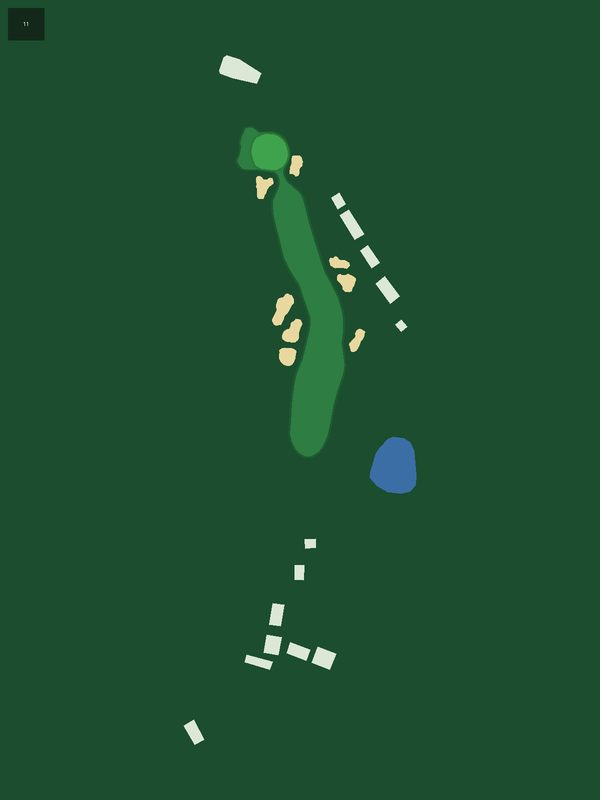
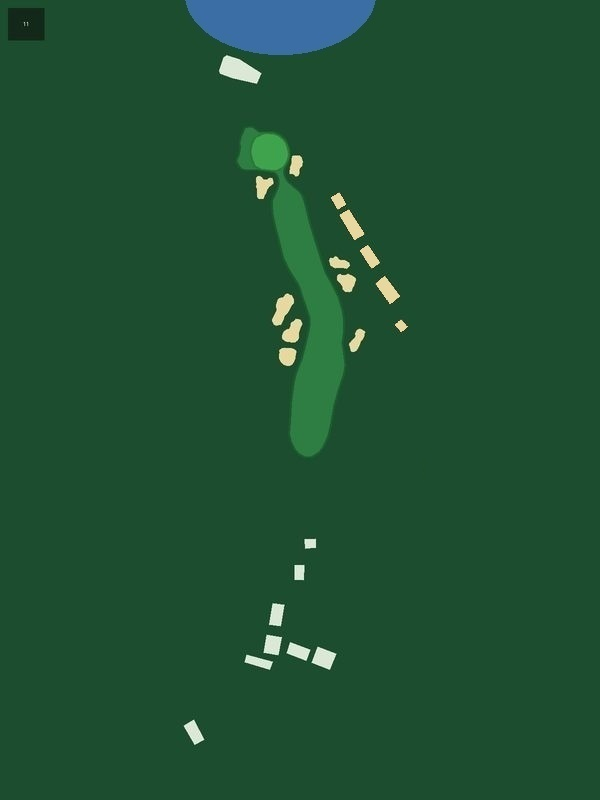
Olympia Fields North: fix map geometry (H1 vertical flip, water hazards on 12 holes, H8 bunkers) + H1 pin correction + 37 to-pin markers + distance scales

diff --git a/app/lib/widgets/hole_map_manifest.dart b/app/lib/widgets/hole_map_manifest.dart
@@ -172,24 +172,24 @@ const holeMapManifest = <String, Map<int, HoleMapAsset>>{
     18: HoleMapAsset(par: 4, map: 'assets/hole_maps/lofoten-links/18.jpg', mask: 'assets/hole_maps/lofoten-links/18_mask.png', tee: Offset(0.572, 0.924), pin: Offset(0.573, 0.191), source: 'osm'),
   },
   'Olympia Fields Country Club': {
-    1: HoleMapAsset(par: 5, map: 'assets/hole_maps/olympia-fields-country-club/1.jpg', mask: 'assets/hole_maps/olympia-fields-country-club/1_mask.png', tee: Offset(0.545, 0.857), pin: Offset(0.395, 0.094), source: 'osm'),
-    2: HoleMapAsset(par: 4, map: 'assets/hole_maps/olympia-fields-country-club/2.jpg', mask: 'assets/hole_maps/olympia-fields-country-club/2_mask.png', tee: Offset(0.539, 0.919), pin: Offset(0.544, 0.115), source: 'osm'),
+    1: HoleMapAsset(par: 5, map: 'assets/hole_maps/olympia-fields-country-club/1.jpg', mask: 'assets/hole_maps/olympia-fields-country-club/1_mask.png', tee: Offset(0.545, 0.857), pin: Offset(0.552, 0.139), source: 'osm', yardsPerPixel: 1.08980, yardages: const [YardageMarker(offset: Offset(0.5948, 0.5286), yards: 341)]),
+    2: HoleMapAsset(par: 4, map: 'assets/hole_maps/olympia-fields-country-club/2.jpg', mask: 'assets/hole_maps/olympia-fields-country-club/2_mask.png', tee: Offset(0.539, 0.919), pin: Offset(0.544, 0.115), source: 'osm', yardsPerPixel: 0.72605, yardages: const [YardageMarker(offset: Offset(0.4553, 0.3954), yards: 167), YardageMarker(offset: Offset(0.4528, 0.4977), yards: 226)]),
     3: HoleMapAsset(par: 4, map: 'assets/hole_maps/olympia-fields-country-club/3.jpg', mask: 'assets/hole_maps/olympia-fields-country-club/3_mask.png', tee: Offset(0.456, 0.917), pin: Offset(0.461, 0.095), source: 'osm'),
-    4: HoleMapAsset(par: 4, map: 'assets/hole_maps/olympia-fields-country-club/4.jpg', mask: 'assets/hole_maps/olympia-fields-country-club/4_mask.png', tee: Offset(0.486, 0.921), pin: Offset(0.478, 0.235), source: 'osm'),
-    5: HoleMapAsset(par: 4, map: 'assets/hole_maps/olympia-fields-country-club/5.jpg', mask: 'assets/hole_maps/olympia-fields-country-club/5_mask.png', tee: Offset(0.616, 0.917), pin: Offset(0.598, 0.092), source: 'osm'),
-    6: HoleMapAsset(par: 3, map: 'assets/hole_maps/olympia-fields-country-club/6.jpg', mask: 'assets/hole_maps/olympia-fields-country-club/6_mask.png', tee: Offset(0.654, 0.907), pin: Offset(0.654, 0.133), source: 'osm'),
-    7: HoleMapAsset(par: 4, map: 'assets/hole_maps/olympia-fields-country-club/7.jpg', mask: 'assets/hole_maps/olympia-fields-country-club/7_mask.png', tee: Offset(0.429, 0.849), pin: Offset(0.442, 0.134), source: 'osm'),
-    8: HoleMapAsset(par: 3, map: 'assets/hole_maps/olympia-fields-country-club/8.jpg', mask: 'assets/hole_maps/olympia-fields-country-club/8_mask.png', tee: Offset(0.544, 0.922), pin: Offset(0.548, 0.263), source: 'osm'),
-    9: HoleMapAsset(par: 4, map: 'assets/hole_maps/olympia-fields-country-club/9.jpg', mask: 'assets/hole_maps/olympia-fields-country-club/9_mask.png', tee: Offset(0.513, 0.859), pin: Offset(0.516, 0.133), source: 'osm'),
-    10: HoleMapAsset(par: 4, map: 'assets/hole_maps/olympia-fields-country-club/10.jpg', mask: 'assets/hole_maps/olympia-fields-country-club/10_mask.png', tee: Offset(0.521, 0.926), pin: Offset(0.502, 0.150), source: 'osm'),
-    11: HoleMapAsset(par: 4, map: 'assets/hole_maps/olympia-fields-country-club/11.jpg', mask: 'assets/hole_maps/olympia-fields-country-club/11_mask.png', tee: Offset(0.453, 0.813), pin: Offset(0.449, 0.190), source: 'osm'),
-    12: HoleMapAsset(par: 4, map: 'assets/hole_maps/olympia-fields-country-club/12.jpg', mask: 'assets/hole_maps/olympia-fields-country-club/12_mask.png', tee: Offset(0.478, 0.792), pin: Offset(0.467, 0.090), source: 'osm'),
-    13: HoleMapAsset(par: 3, map: 'assets/hole_maps/olympia-fields-country-club/13.jpg', mask: 'assets/hole_maps/olympia-fields-country-club/13_mask.png', tee: Offset(0.413, 0.766), pin: Offset(0.430, 0.181), source: 'osm'),
-    14: HoleMapAsset(par: 4, map: 'assets/hole_maps/olympia-fields-country-club/14.jpg', mask: 'assets/hole_maps/olympia-fields-country-club/14_mask.png', tee: Offset(0.590, 0.918), pin: Offset(0.600, 0.200), source: 'osm'),
-    15: HoleMapAsset(par: 5, map: 'assets/hole_maps/olympia-fields-country-club/15.jpg', mask: 'assets/hole_maps/olympia-fields-country-club/15_mask.png', tee: Offset(0.550, 0.856), pin: Offset(0.549, 0.135), source: 'osm'),
-    16: HoleMapAsset(par: 3, map: 'assets/hole_maps/olympia-fields-country-club/16.jpg', mask: 'assets/hole_maps/olympia-fields-country-club/16_mask.png', tee: Offset(0.555, 0.917), pin: Offset(0.570, 0.289), source: 'mixed'),
-    17: HoleMapAsset(par: 4, map: 'assets/hole_maps/olympia-fields-country-club/17.jpg', mask: 'assets/hole_maps/olympia-fields-country-club/17_mask.png', tee: Offset(0.550, 0.927), pin: Offset(0.548, 0.107), source: 'osm'),
-    18: HoleMapAsset(par: 4, map: 'assets/hole_maps/olympia-fields-country-club/18.jpg', mask: 'assets/hole_maps/olympia-fields-country-club/18_mask.png', tee: Offset(0.492, 0.926), pin: Offset(0.484, 0.174), source: 'osm'),
+    4: HoleMapAsset(par: 4, map: 'assets/hole_maps/olympia-fields-country-club/4.jpg', mask: 'assets/hole_maps/olympia-fields-country-club/4_mask.png', tee: Offset(0.486, 0.921), pin: Offset(0.478, 0.235), source: 'osm', yardsPerPixel: 0.72884, yardages: const [YardageMarker(offset: Offset(0.3521, 0.4497), yards: 137)]),
+    5: HoleMapAsset(par: 4, map: 'assets/hole_maps/olympia-fields-country-club/5.jpg', mask: 'assets/hole_maps/olympia-fields-country-club/5_mask.png', tee: Offset(0.616, 0.917), pin: Offset(0.598, 0.092), source: 'osm', yardsPerPixel: 0.63173, yardages: const [YardageMarker(offset: Offset(0.6098, 0.6341), yards: 274)]),
+    6: HoleMapAsset(par: 3, map: 'assets/hole_maps/olympia-fields-country-club/6.jpg', mask: 'assets/hole_maps/olympia-fields-country-club/6_mask.png', tee: Offset(0.654, 0.907), pin: Offset(0.654, 0.133), source: 'osm', yardsPerPixel: 0.30200, yardages: const [YardageMarker(offset: Offset(0.6965, 0.1924), yards: 16), YardageMarker(offset: Offset(0.7641, 0.1546), yards: 21), YardageMarker(offset: Offset(0.5833, 0.2128), yards: 23)]),
+    7: HoleMapAsset(par: 4, map: 'assets/hole_maps/olympia-fields-country-club/7.jpg', mask: 'assets/hole_maps/olympia-fields-country-club/7_mask.png', tee: Offset(0.429, 0.849), pin: Offset(0.442, 0.134), source: 'osm', yardsPerPixel: 0.79014, yardages: const [YardageMarker(offset: Offset(0.4627, 0.3637), yards: 146), YardageMarker(offset: Offset(0.5273, 0.3923), yards: 168), YardageMarker(offset: Offset(0.4606, 0.4111), yards: 175), YardageMarker(offset: Offset(0.5335, 0.4346), yards: 195)]),
+    8: HoleMapAsset(par: 3, map: 'assets/hole_maps/olympia-fields-country-club/8.jpg', mask: 'assets/hole_maps/olympia-fields-country-club/8_mask.png', tee: Offset(0.544, 0.922), pin: Offset(0.548, 0.263), source: 'osm', yardsPerPixel: 0.53110, yardages: const [YardageMarker(offset: Offset(0.5831, 0.2852), yards: 15), YardageMarker(offset: Offset(0.5071, 0.3022), yards: 21), YardageMarker(offset: Offset(0.5278, 0.3449), yards: 35)]),
+    9: HoleMapAsset(par: 4, map: 'assets/hole_maps/olympia-fields-country-club/9.jpg', mask: 'assets/hole_maps/olympia-fields-country-club/9_mask.png', tee: Offset(0.513, 0.859), pin: Offset(0.516, 0.133), source: 'osm', yardsPerPixel: 0.81267, yardages: const [YardageMarker(offset: Offset(0.5056, 0.4561), yards: 210), YardageMarker(offset: Offset(0.4926, 0.4784), yards: 225)]),
+    10: HoleMapAsset(par: 4, map: 'assets/hole_maps/olympia-fields-country-club/10.jpg', mask: 'assets/hole_maps/olympia-fields-country-club/10_mask.png', tee: Offset(0.521, 0.926), pin: Offset(0.502, 0.150), source: 'osm', yardsPerPixel: 0.71186, yardages: const [YardageMarker(offset: Offset(0.5630, 0.4480), yards: 172), YardageMarker(offset: Offset(0.6391, 0.4769), yards: 195), YardageMarker(offset: Offset(0.6463, 0.6873), yards: 312)]),
+    11: HoleMapAsset(par: 4, map: 'assets/hole_maps/olympia-fields-country-club/11.jpg', mask: 'assets/hole_maps/olympia-fields-country-club/11_mask.png', tee: Offset(0.453, 0.813), pin: Offset(0.449, 0.190), source: 'osm', yardsPerPixel: 0.79453, yardages: const [YardageMarker(offset: Offset(0.5064, 0.4086), yards: 142), YardageMarker(offset: Offset(0.5196, 0.4340), yards: 159), YardageMarker(offset: Offset(0.6011, 0.4205), yards: 163)]),
+    12: HoleMapAsset(par: 4, map: 'assets/hole_maps/olympia-fields-country-club/12.jpg', mask: 'assets/hole_maps/olympia-fields-country-club/12_mask.png', tee: Offset(0.478, 0.792), pin: Offset(0.467, 0.090), source: 'osm', yardsPerPixel: 0.69262, yardages: const [YardageMarker(offset: Offset(0.4480, 0.2879), yards: 110), YardageMarker(offset: Offset(0.4233, 0.3300), yards: 134)]),
+    13: HoleMapAsset(par: 3, map: 'assets/hole_maps/olympia-fields-country-club/13.jpg', mask: 'assets/hole_maps/olympia-fields-country-club/13_mask.png', tee: Offset(0.413, 0.766), pin: Offset(0.430, 0.181), source: 'osm', yardsPerPixel: 0.35889, yardages: const [YardageMarker(offset: Offset(0.4470, 0.2200), yards: 12), YardageMarker(offset: Offset(0.4020, 0.2320), yards: 16)]),
+    14: HoleMapAsset(par: 4, map: 'assets/hole_maps/olympia-fields-country-club/14.jpg', mask: 'assets/hole_maps/olympia-fields-country-club/14_mask.png', tee: Offset(0.590, 0.918), pin: Offset(0.600, 0.200), source: 'osm', yardsPerPixel: 0.77294, yardages: const [YardageMarker(offset: Offset(0.6460, 0.4481), yards: 155), YardageMarker(offset: Offset(0.5906, 0.7415), yards: 335)]),
+    15: HoleMapAsset(par: 5, map: 'assets/hole_maps/olympia-fields-country-club/15.jpg', mask: 'assets/hole_maps/olympia-fields-country-club/15_mask.png', tee: Offset(0.550, 0.856), pin: Offset(0.549, 0.135), source: 'osm', yardsPerPixel: 0.99861, yardages: const [YardageMarker(offset: Offset(0.4552, 0.4971), yards: 295), YardageMarker(offset: Offset(0.5423, 0.5526), yards: 334), YardageMarker(offset: Offset(0.7087, 0.7295), yards: 484)]),
+    16: HoleMapAsset(par: 3, map: 'assets/hole_maps/olympia-fields-country-club/16.jpg', mask: 'assets/hole_maps/olympia-fields-country-club/16_mask.png', tee: Offset(0.555, 0.917), pin: Offset(0.570, 0.289), source: 'mixed', yardsPerPixel: 0.42788, yardages: const [YardageMarker(offset: Offset(0.6121, 0.3330), yards: 19), YardageMarker(offset: Offset(0.5029, 0.3288), yards: 22), YardageMarker(offset: Offset(0.6273, 0.4424), yards: 55)]),
+    17: HoleMapAsset(par: 4, map: 'assets/hole_maps/olympia-fields-country-club/17.jpg', mask: 'assets/hole_maps/olympia-fields-country-club/17_mask.png', tee: Offset(0.550, 0.927), pin: Offset(0.548, 0.107), source: 'osm', yardsPerPixel: 0.69360, yardages: const [YardageMarker(offset: Offset(0.6216, 0.5438), yards: 244)]),
+    18: HoleMapAsset(par: 4, map: 'assets/hole_maps/olympia-fields-country-club/18.jpg', mask: 'assets/hole_maps/olympia-fields-country-club/18_mask.png', tee: Offset(0.492, 0.926), pin: Offset(0.484, 0.174), source: 'osm', yardsPerPixel: 0.82444, yardages: const [YardageMarker(offset: Offset(0.6087, 0.5155), yards: 234)]),
   },
   'Pebble Beach Golf Links': {
     1: HoleMapAsset(par: 4, map: 'assets/hole_maps/pebble-beach-golf-links/1.jpg', mask: 'assets/hole_maps/pebble-beach-golf-links/1_mask.png', tee: Offset(0.481, 0.917), pin: Offset(0.482, 0.131), source: 'osm', yardsPerPixel: 0.6011, yardages: const [YardageMarker(offset: Offset(0.482, 0.408), yards: 133)]),
